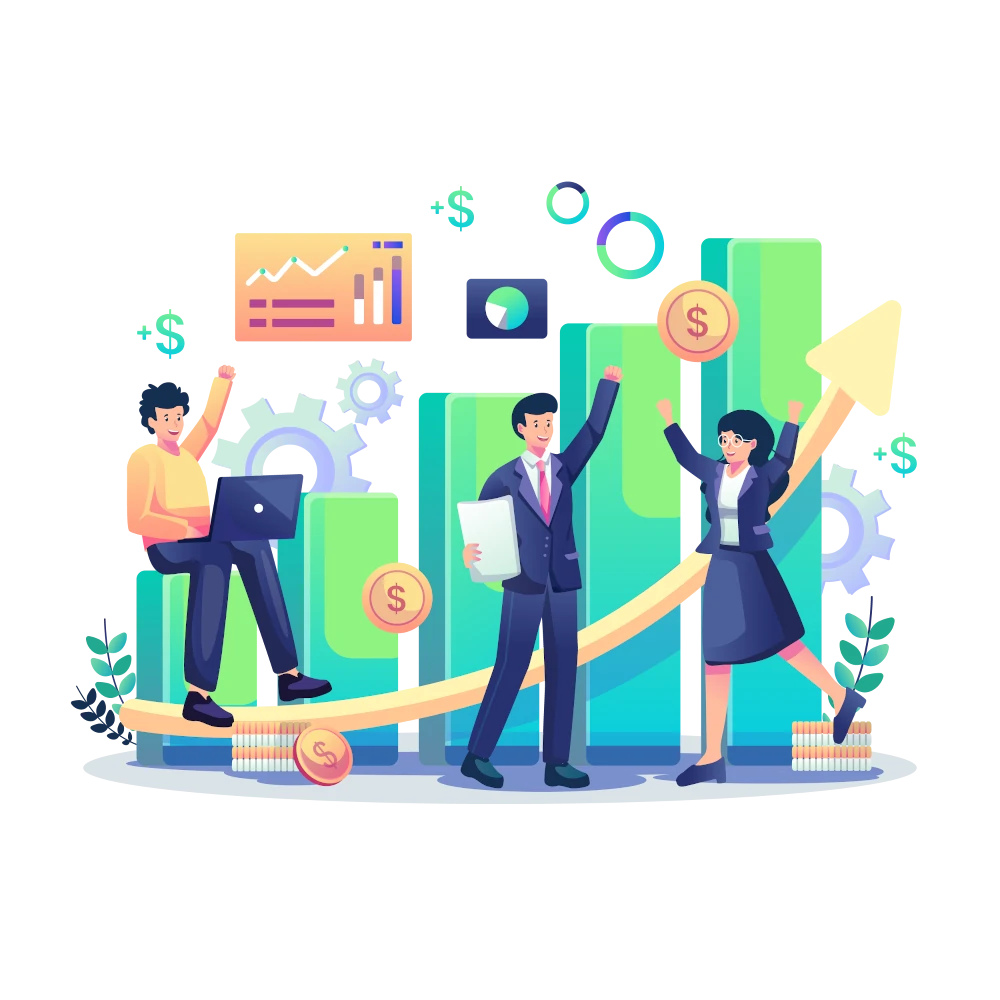
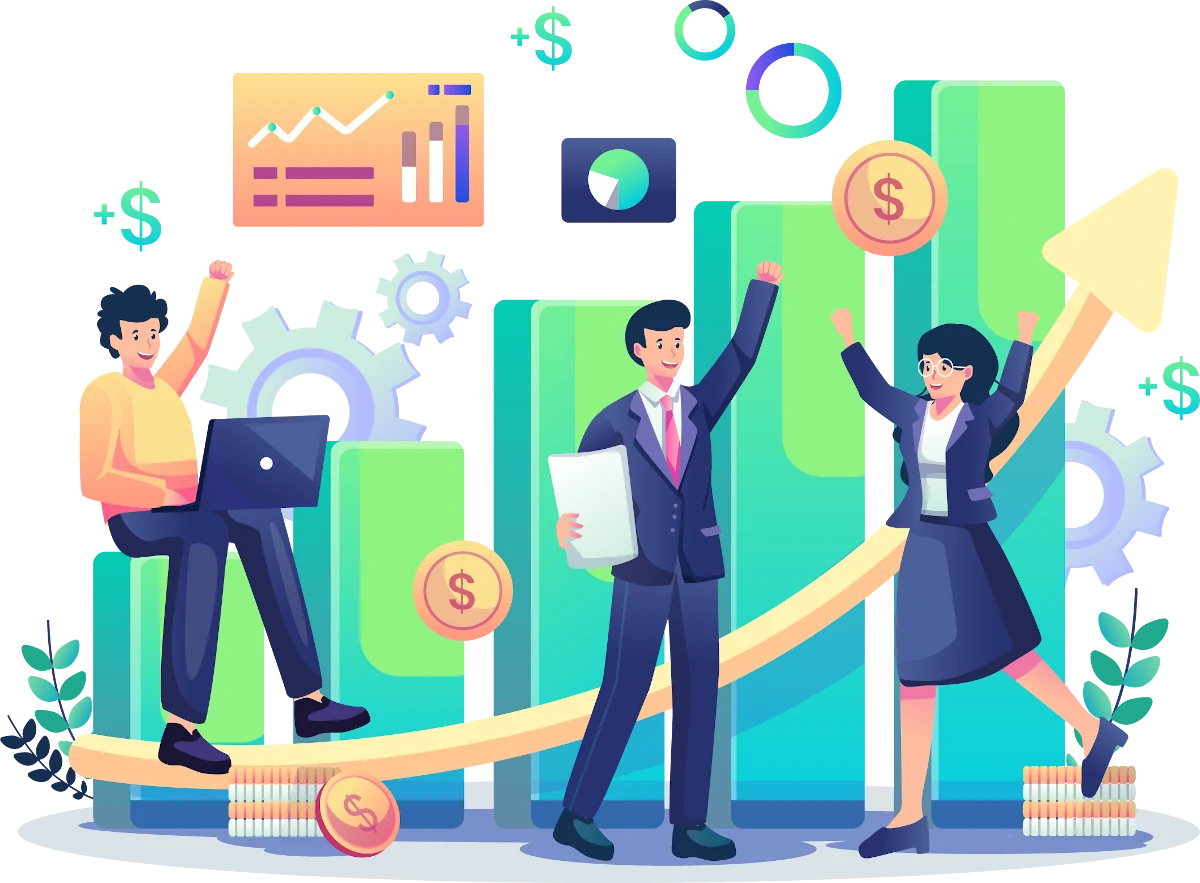
commit

diff --git a/sections/home/History.jsx b/sections/home/History.jsx
@@ -18,7 +18,7 @@ const History = () => {
       >
         <div className={styles.content}>
           <motion.div
-            variants={fadeIn('right', 'tween', 0.2, 1)}
+            variants={fadeIn('left', 'tween', 0.2, 1)}
             className={styles.left}
           >
             <TypingText stylesClass="section-title" text="| history Us" />
@@ -41,10 +41,10 @@ const History = () => {
             className={styles.right}
           >
             <Image
-              src="/images/home-page/history/our-history.webp"
+              src="/images/home-page/history/our-history.png"
               alt="our history image"
               width={700}
-              height={700}
+              height={500}
               className={styles.historyImage}
             />
           </motion.div>

diff --git a/styles/home-page/history.module.css b/styles/home-page/history.module.css
@@ -6,3 +6,7 @@
   display: flex;
   gap: 50px;
 }
+
+.left, .right {
+  flex: 1;
+}
